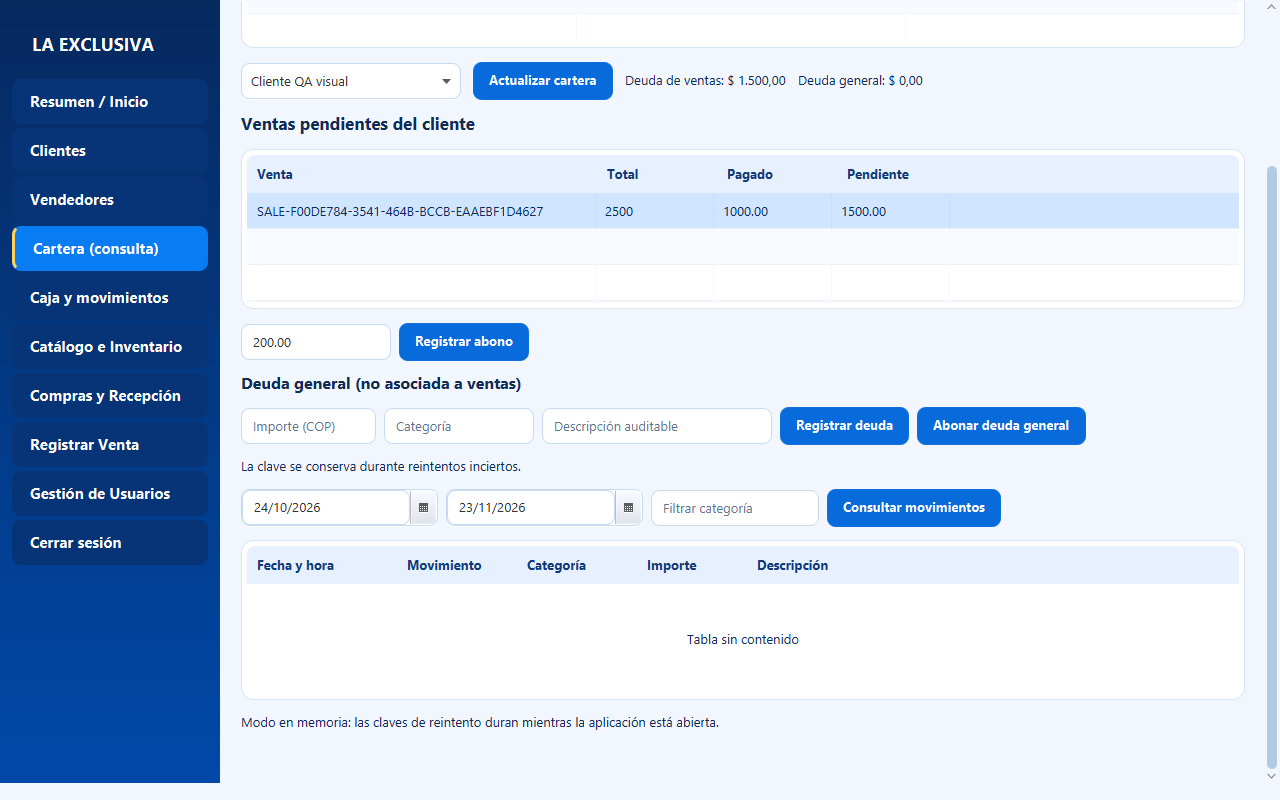
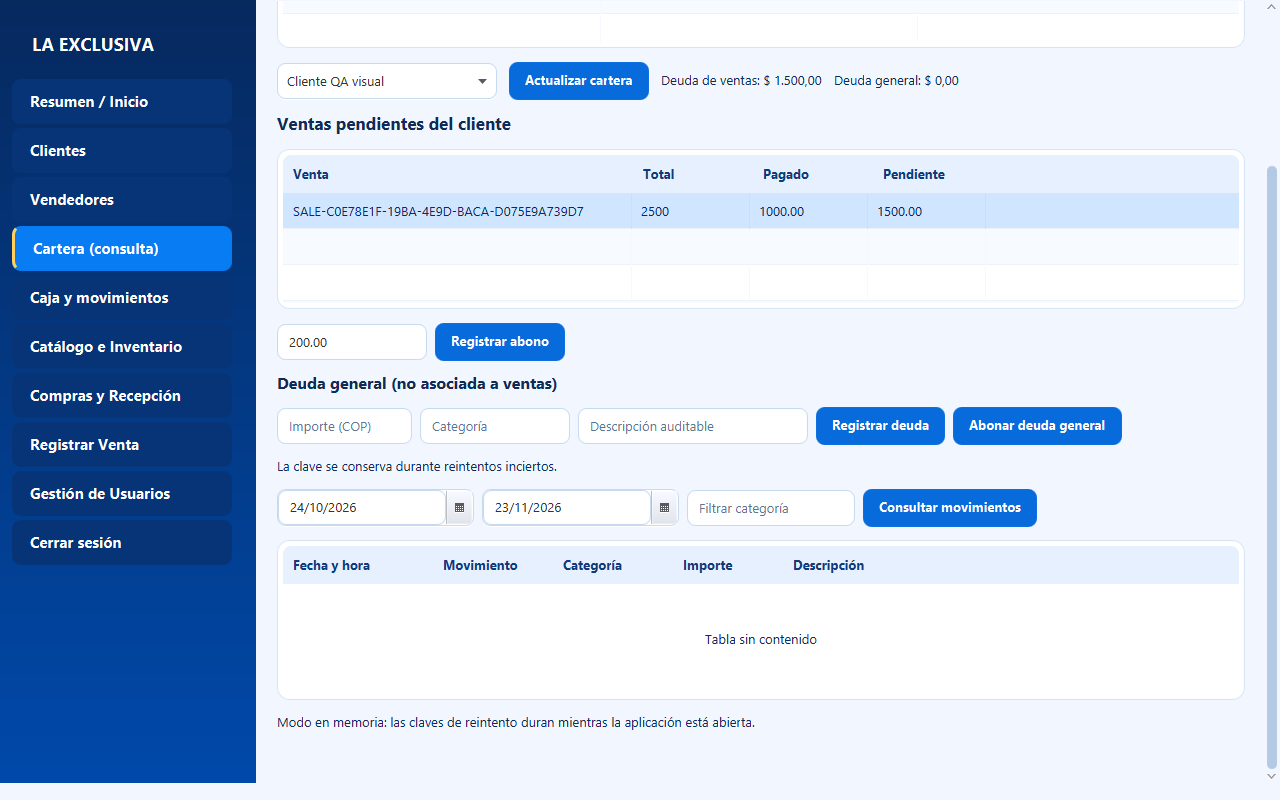
fix(ui): keep purchases navigation readable across platforms

diff --git a/docs/ai-usage/developer2-ai-log.md b/docs/ai-usage/developer2-ai-log.md
@@ -710,3 +710,13 @@ los resultados; no se usan por sí solos para atribuir uso de IA.
 * **Qué se acepta, modifica o descarta y por qué:** Se preservan ambos historiales y los commits 7100748/bc90f12. Se compacta solo el espaciado lateral para incluir Compras sin ocultar logout; ambos menús quedan idénticos. No se reescribe lógica, permisos ni la mascota original; no se inventan métricas. App.java, launcher e iconos quedan intactos. Las modificaciones funcionales heredadas son las de develop, no cambios propios adicionales.
 * **Verificación realizada:** La ejecución dirigida inicial dio 73 casos, 1 error de selector de bienvenida tras abandonar dashboard; las 16 visuales pasaron. Se corrigió la ubicación de esa aserción sin eliminarla. Suite final Temurin 17.0.21+9, Maven offline clean verify: 839 casos, 779 aprobados, 60 PostgreSQL omitidos, 0 fallos/errores. Se comprobaron recepción con movimiento de stock, abonos sin modificar existencias, roles, administración, login/logout y recuperación; capturas inspeccionadas. Sin SQL ni migraciones. Entradas anteriores preservadas byte por byte.
 * **Commit o Pull Request relacionado:** [PR #25](https://github.com/carloscamelo2008-lang/la-exclusiva-p3/pull/25), permanece Draft; merge y CI pendientes de publicación al registrar esta entrada.
+### Continuación de la Interacción 45 – Ancho de navegación en Ubuntu
+
+* **Fecha:** 23/11/2026.
+* **Herramienta:** Codex.
+* **Fase, tarea y rama:** Comprobación de CI del merge 9d7dd84; `feature/ui-modernization`.
+* **Objetivo de la consulta:** Completar la integración y verificar la CI del commit publicado, conservando las pruebas estrictas de legibilidad.
+* **Resumen de la respuesta recibida:** Las ejecuciones 45261680900/45261691421 detectaron recorte de «Compras y Recepción» con la fuente de Ubuntu. Se amplió únicamente el lateral a 256 px en ambos menús y se renovaron capturas reales de las escenas integradas.
+* **Qué se acepta, modifica o descarta y por qué:** Se corrige el ancho sin debilitar la aserción ni alterar permisos, servicios, controladores o mascota. El merge publicado conserva ambos padres y GitHub confirmó ausencia de conflictos; el PR permanece Draft.
+* **Verificación realizada:** CI inicial: 839 casos, 1 error, 60 omitidos. Repetición local final con Temurin 17.0.21+9, Maven offline clean verify: 839 casos, 779 aprobados, 60 PostgreSQL omitidos, 0 fallos/errores, incluidas 16 pruebas visuales. Captura a 800×600 inspeccionada tras ampliar el lateral. La duración incluyó una pausa prolongada del equipo y no es una medición de rendimiento. Sin SQL ni migraciones; entradas previas intactas. CI de la corrección pendiente de publicación al registrar esta continuación.
+* **Commit o Pull Request relacionado:** [PR #25](https://github.com/carloscamelo2008-lang/la-exclusiva-p3/pull/25), sigue Draft; corrección posterior al merge 9d7dd84.

diff --git a/docs/ui-modernization.md b/docs/ui-modernization.md
@@ -187,3 +187,12 @@ El PR #25 se mantiene Draft para revisión. Siguen pendientes el logo independie
 la integración de identidad de escritorio por Carlos y las fuentes reales de indicadores
 globales. No se modifica App.java, launcher ni iconos. El resultado de CI del nuevo
 commit se comprobará tras publicar; las pruebas PostgreSQL omitidas no se declaran aprobadas.
+### Corrección de ancho tras CI Ubuntu
+
+La primera CI del merge (`45261680900` y `45261691421`) detectó que la fuente de
+Ubuntu recortaba «Compras y Recepción»: 839 casos, 1 error, 60 omitidos. Se conserva
+la aserción de medidas y se amplía el lateral de 220 a 256 px en ambos menús,
+sin modificar controladores o permisos. Se repitió Maven offline clean verify con
+Temurin 17.0.21+9: 839 casos, 779 aprobados, 60 omitidos y cero fallos/errores.
+Las capturas integradas se renovaron con este ancho. La ejecución local incluyó
+una pausa prolongada del equipo; su duración no se utiliza como medida de rendimiento.
